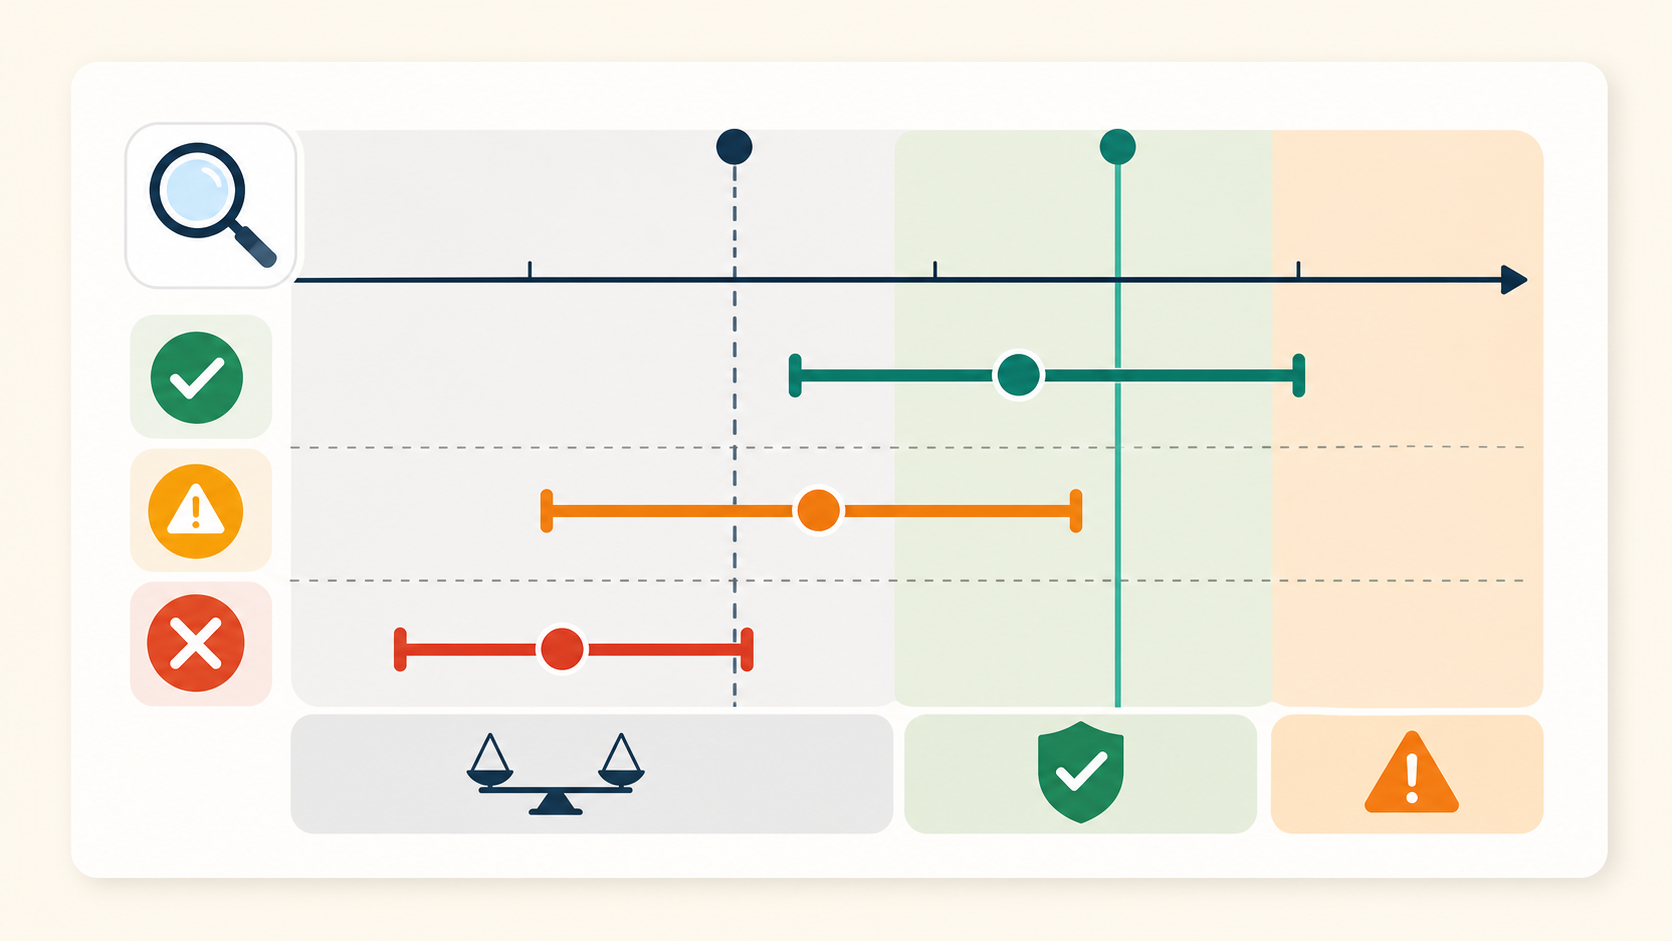
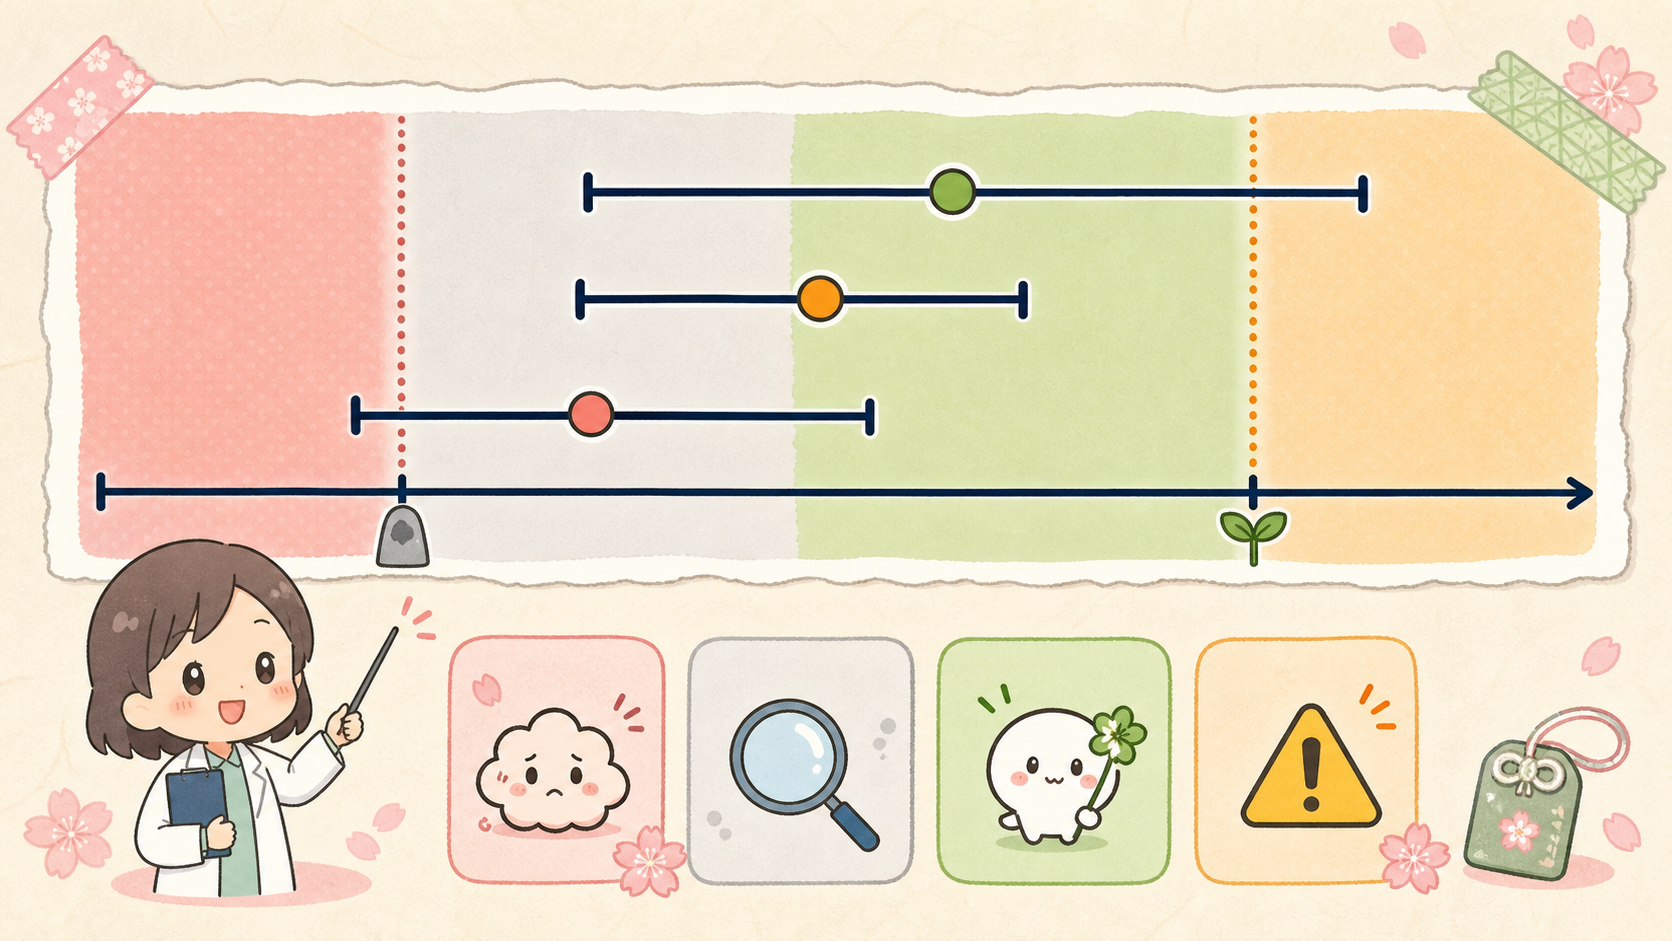
docs: refresh primer diagrams in kawaii style

diff --git a/index.html b/index.html
@@ -3408,7 +3408,7 @@
         </div>
 
         <figure class="ai-learning-figure ai-flow-figure">
-          <img src="images/ebm-grade-reading-flow.png?v=7.3" alt="EBMからGRADEへ、SRとCPGを読む臨床医の流れを示す図" loading="lazy">
+          <img src="images/ebm-grade-reading-flow.png?v=7.4" alt="EBMからGRADEへ、SRとCPGを読む臨床医の流れを示す図" loading="lazy">
           <figcaption>図：EBMからGRADEへ — 臨床疑問を、SR・SoF表・CPG推奨を通じて患者との意思決定へつなげる。</figcaption>
           <div class="ai-flow-labels" aria-label="図の読み方">
             <span>1. 臨床疑問</span>
@@ -3427,6 +3427,38 @@
             <li>SRは研究をまとめ、GRADEはその結果を「どれくらい信じるか」「どう勧めるか」に翻訳します。</li>
             <li>臨床医は全工程を自分で作る必要はありませんが、各段階で何が省略・説明不足になっていないかを読みます。</li>
           </ul>
+        </div>
+
+        <h3>EBMとして、初心者が論文を読むときの5つのポイント</h3>
+        <p>
+          Guyatt先生の講演の通り、日常診療で全ての原著論文を一から批判的吟味するのは現実的ではありません。それでも、SRやCPGの根拠になっている重要論文を読む場面はあります。そのとき初心者が最初に見るべきなのは、著者の結論ではなく、<strong>臨床疑問・方法・結果・限界・自分の患者への適用</strong>です。
+        </p>
+
+        <figure class="ai-learning-figure ai-paper-figure">
+          <img src="images/ebm-paper-reading-points.png?v=7.4" alt="初心者がEBMとして論文を読む5つのポイントを示す図" loading="lazy">
+          <figcaption>図：論文を読むときは、結論だけでなく「PICO、方法、結果、限界、患者への適用」を順に確認する。</figcaption>
+          <div class="ai-paper-labels" aria-label="論文を読む5つのポイント">
+            <span>1. PICOを確認</span>
+            <span>2. 方法を見る</span>
+            <span>3. 効果量を読む</span>
+            <span>4. 限界を疑う</span>
+            <span>5. 患者に戻す</span>
+          </div>
+        </figure>
+
+        <div class="reader-tips">
+          <h4>初心者はここから読む</h4>
+          <ul>
+            <li><strong>PICO：</strong>対象患者、介入、比較、アウトカムが、自分の疑問と合っているか。</li>
+            <li><strong>方法：</strong>RCTか観察研究か、追跡期間は十分か、アウトカムは患者に重要か。</li>
+            <li><strong>結果：</strong>相対効果だけでなく絶対効果と信頼区間を見る。点推定値だけで判断しない。</li>
+            <li><strong>限界：</strong>バイアスリスク、脱落、盲検化、選択的報告、資金提供などで結果がゆがみそうか。</li>
+            <li><strong>適用：</strong>自分の患者の背景リスク、価値観、併存疾患、医療環境で同じ判断になるか。</li>
+          </ul>
+        </div>
+
+        <div class="example-box">
+          <strong>実践のコツ：</strong>Abstractの結論とDiscussionだけで「効く」と判断しないでください。まずMethodsでPICOと研究デザインを確認し、Resultsで絶対効果と信頼区間を見て、最後に「この患者ならどうか」に戻ります。これはSR・CPGを読むときにも同じです。
         </div>
 
         <h3>臨床医がSR・CPGで見る7つの窓口</h3>
@@ -3466,7 +3498,7 @@
         </p>
 
         <figure class="ai-learning-figure ai-threshold-figure">
-          <img src="images/certainty-thresholds-null-mid.png?v=7.3" alt="NullとMIDの閾値、信頼区間、確実性の読み方を示す図" loading="lazy">
+          <img src="images/certainty-thresholds-null-mid.png?v=7.4" alt="NullとMIDの閾値、信頼区間、確実性の読み方を示す図" loading="lazy">
           <figcaption>図：信頼区間は、効果なしの線（Null）と、患者に意味のある差（MID）の線を一緒に見る。</figcaption>
           <div class="ai-legend-grid">
             <div><strong>緑</strong><span>判断しやすい範囲：重要な利益がありそう</span></div>
@@ -3685,7 +3717,7 @@
         </div>
 
         <figure class="ai-learning-figure ai-rec-figure">
-          <img src="images/recommendation-strength-reader-map.png?v=7.3" alt="利益と害、確実性、患者価値観、文脈から推奨の強さを読む図" loading="lazy">
+          <img src="images/recommendation-strength-reader-map.png?v=7.4" alt="利益と害、確実性、患者価値観、文脈から推奨の強さを読む図" loading="lazy">
           <figcaption>図：推奨文は、利益と害のバランス、確実性、患者価値観、現場の文脈を合わせて読む。</figcaption>
           <div class="ai-rec-labels">
             <span class="strong-for">強く行う</span>

diff --git a/style-cpgsr.css b/style-cpgsr.css
@@ -4001,6 +4001,7 @@ body.cpg-overview-open { overflow: hidden; }
 }
 
 .ai-flow-labels span,
+.ai-paper-labels span,
 .ai-rec-labels span {
   display: flex;
   align-items: center;
@@ -4014,6 +4015,18 @@ body.cpg-overview-open { overflow: hidden; }
   font-size: 0.88rem;
   line-height: 1.35;
   text-align: center;
+}
+
+.ai-paper-labels {
+  display: grid;
+  grid-template-columns: repeat(5, 1fr);
+  gap: 8px;
+  margin-top: 12px;
+}
+
+.ai-paper-labels span {
+  background: #fff4f5;
+  color: #7a3a46;
 }
 
 .ai-legend-grid {
@@ -4077,11 +4090,13 @@ body.cpg-overview-open { overflow: hidden; }
     line-height: 1.7;
   }
   .ai-flow-labels,
+  .ai-paper-labels,
   .ai-legend-grid,
   .ai-rec-labels {
     grid-template-columns: 1fr 1fr;
   }
   .ai-flow-labels span,
+  .ai-paper-labels span,
   .ai-rec-labels span {
     min-height: 46px;
     font-size: 0.95rem;
@@ -4094,6 +4109,7 @@ body.cpg-overview-open { overflow: hidden; }
 
 @media (max-width: 420px) {
   .ai-flow-labels,
+  .ai-paper-labels,
   .ai-legend-grid,
   .ai-rec-labels {
     grid-template-columns: 1fr;
